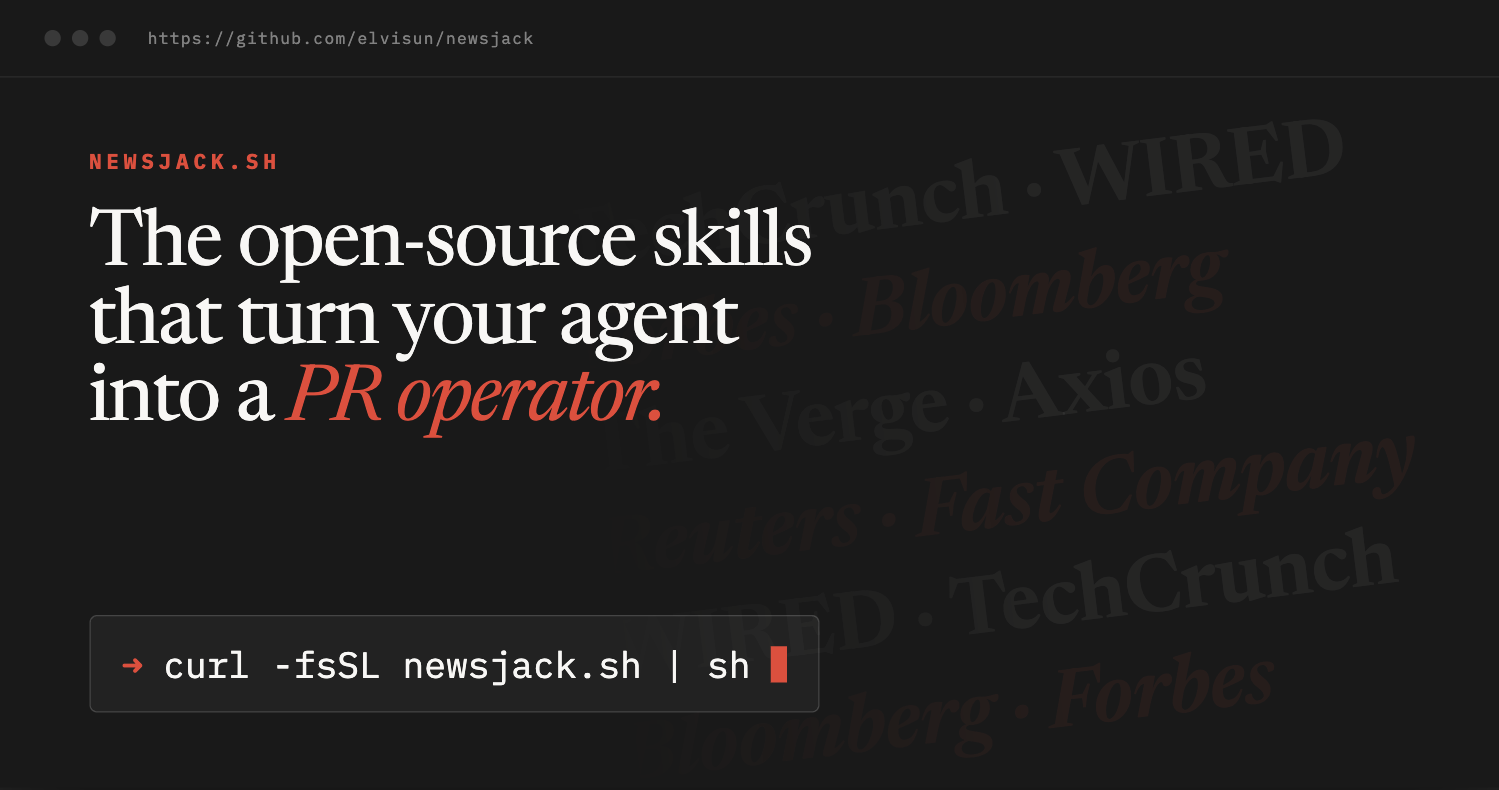
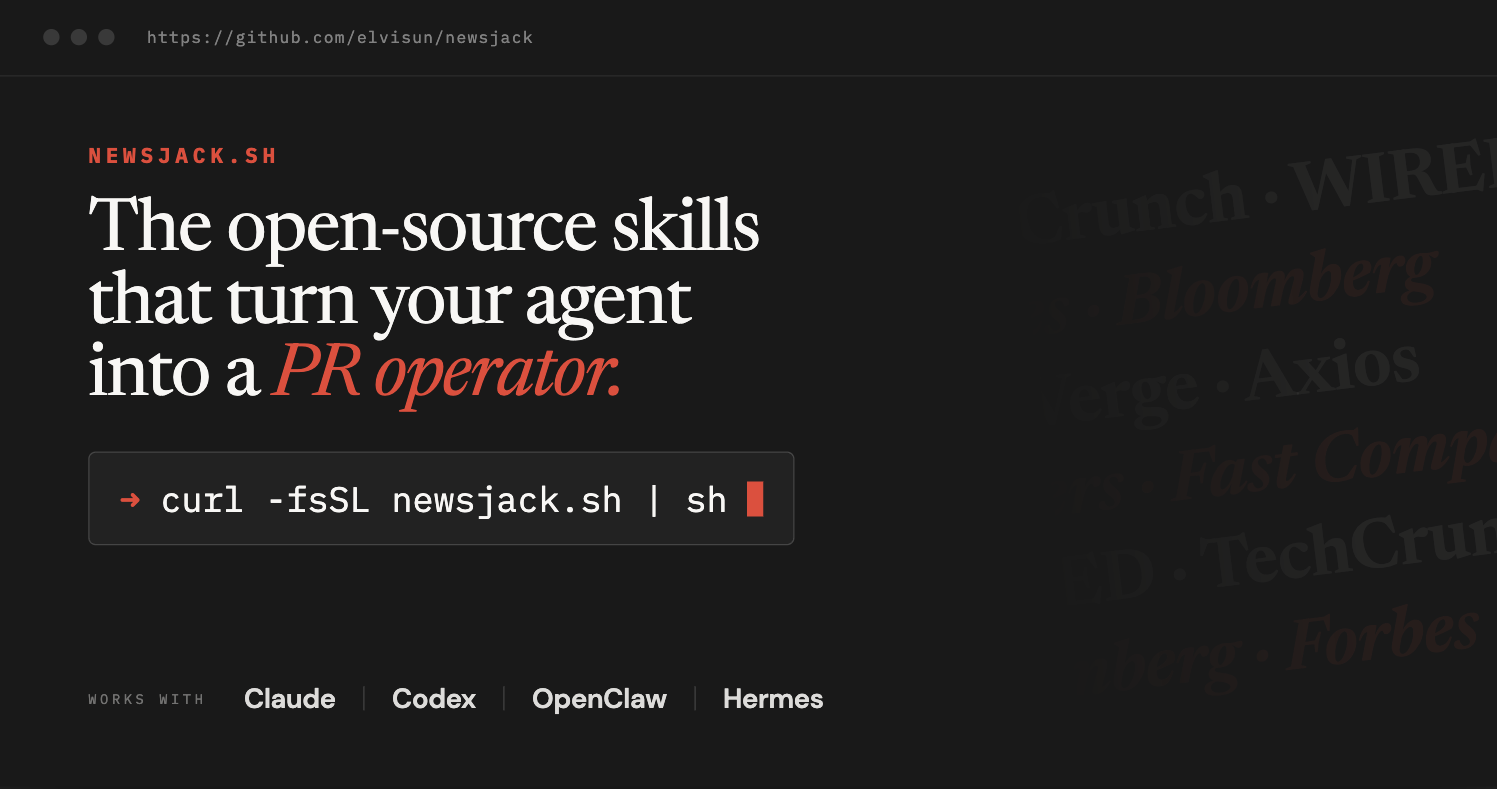
Update site OG image

diff --git a/apps/site/app/layout.tsx b/apps/site/app/layout.tsx
@@ -6,8 +6,8 @@ const description =
   "The open-source skills that turn your agent into a PR operator.";
 const ogImage = {
   url: "/newsjack-og-image.png",
-  width: 1499,
-  height: 790,
+  width: 1497,
+  height: 789,
   alt: "newsjack.sh - The open-source skills that turn your agent into a PR operator.",
 };
 
